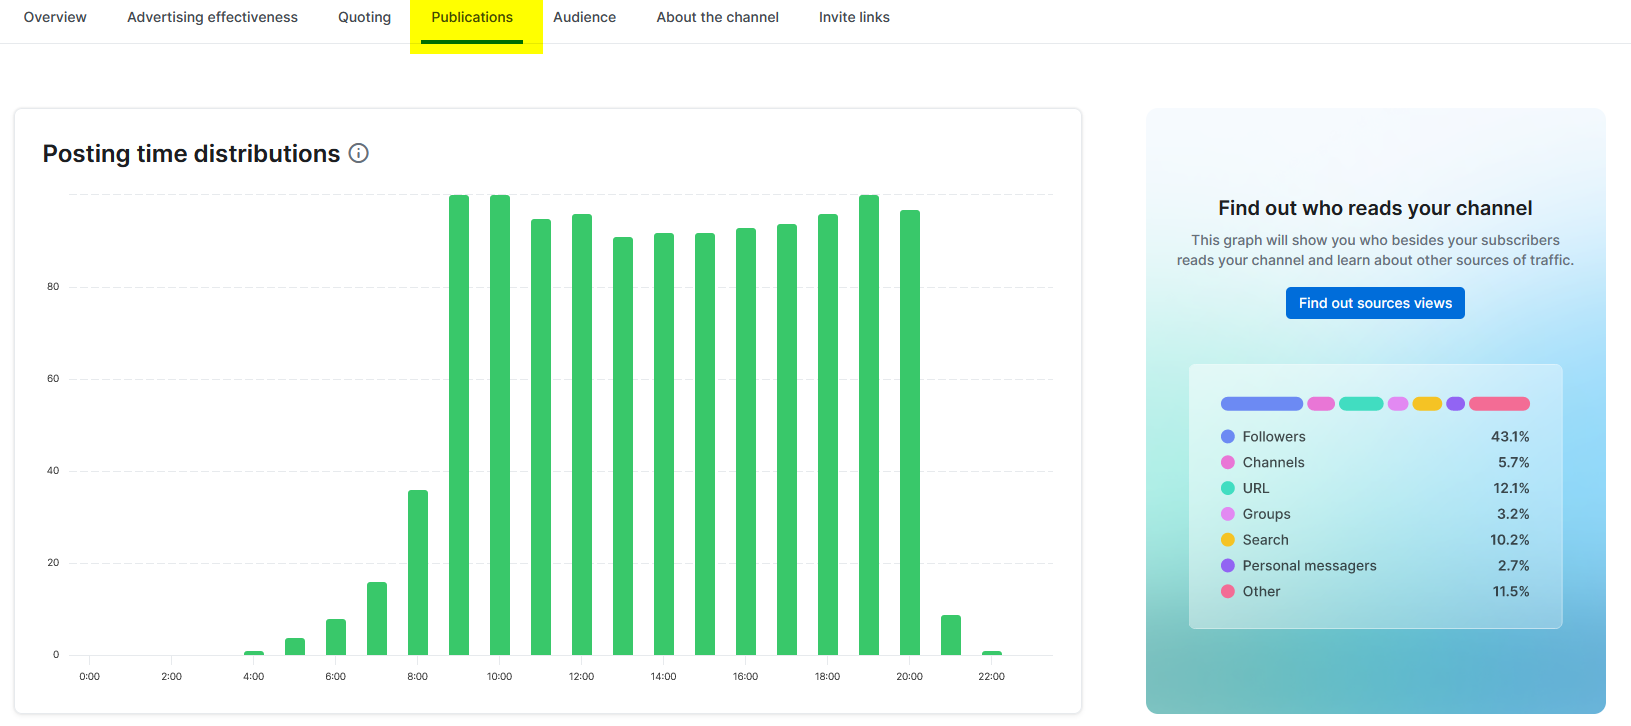
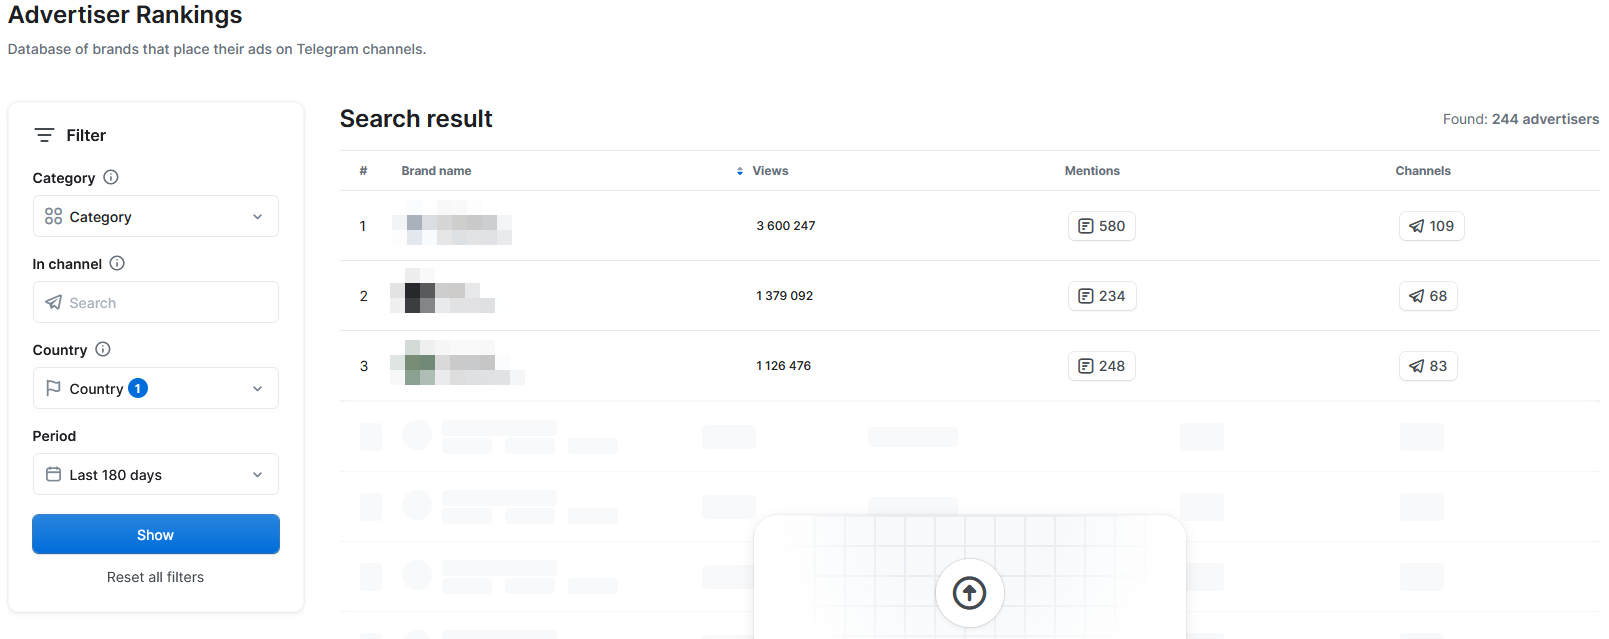
GitBook: Update content

diff --git a/gitbook/tools/telemetrio/README.md b/gitbook/tools/telemetrio/README.md
@@ -46,7 +46,7 @@ Features:
 
 The examples illustrate the results of a free-tier user account logged in and searching for the term "Bellingcat." This result page displays Bellingcat's Telegram channel, featuring several analytical data points, including subscriber counts over time, post views, engagement rate, and category.
 
-<figure><img src="../../.gitbook/assets/Screenshot 2024-04-20 at 2.35.57 PM.png" alt=""><figcaption><p>Telemtrio example search result depicting the Bellingcat channel.</p></figcaption></figure>
+<figure><img src=".gitbook/assets/Screenshot 2024-04-20 at 2.35.57 PM (1).png" alt=""><figcaption><p>Telemtrio example search result depicting the Bellingcat channel.</p></figcaption></figure>
 
 ## Functions
 
@@ -86,7 +86,7 @@ This feature allows users to add channels not listed in the catalog. It ensures 
 
 When viewing the landing pages of individual channels, several metrics are presented that can help you quickly judge a Telegram channel's size, influence, engagement, and activity.
 
-<figure><img src="../../.gitbook/assets/grafik (7).png" alt=""><figcaption><p>The results page of the Bellingcat channel showing several basic metrics. (see details below)</p></figcaption></figure>
+<figure><img src=".gitbook/assets/grafik (7) (1).png" alt=""><figcaption><p>The results page of the Bellingcat channel showing several basic metrics. (see details below)</p></figcaption></figure>
 
 <details>
 
@@ -117,7 +117,7 @@ Some example use-cases:
 
 #### The Overview Tab
 
-<figure><img src="../../.gitbook/assets/grafik (4) (1).png" alt=""><figcaption><p>This section provides a visual representation of the channel's subscriber growth over time. The graph shows the number of subscribers on a daily basis, while the right column lists recent posts.</p></figcaption></figure>
+<figure><img src=".gitbook/assets/grafik (4) (1).png" alt=""><figcaption><p>This section provides a visual representation of the channel's subscriber growth over time. The graph shows the number of subscribers on a daily basis, while the right column lists recent posts.</p></figcaption></figure>
 
 The "Overview" tab provides critical insights into the channel's growth, engagement, and recent activity. A line graph shows the total number of subscribers over a selected period, highlighting trends in subscriber growth, and a table lists the exact number of subscribers, daily growth, mentions, reposts, and posts according to the selected granularity.
 
@@ -146,7 +146,7 @@ Some use-cases:
 
 #### Advertising effectiveness
 
-<figure><img src="../../.gitbook/assets/grafik (5) (1).png" alt=""><figcaption><p>Advertising effectiveness tab of an "alternative news" channel.</p></figcaption></figure>
+<figure><img src=".gitbook/assets/grafik (5) (1).png" alt=""><figcaption><p>Advertising effectiveness tab of an "alternative news" channel.</p></figcaption></figure>
 
 The **Advertising Effectiveness tab** provides metrics for understanding a channel's advertising strategies and their impact. Investigating advertising can help trace funding sources or reveal connections between obfuscated networks of channels. Advertising is an aspect of research often worth looking into and a strength of the platform (compared to free or CLI tools).
 
@@ -187,7 +187,7 @@ The Quoting tab details how often a channel is mentioned or reposted by others, 
 
 _Quoting Tab: In/Outgoing Mentions:_
 
-<figure><img src="../../.gitbook/assets/grafik (11).png" alt=""><figcaption><p>Incoming and Outgoing Messages of an "alternative news" channel.</p></figcaption></figure>
+<figure><img src=".gitbook/assets/grafik (11) (1).png" alt=""><figcaption><p>Incoming and Outgoing Messages of an "alternative news" channel.</p></figcaption></figure>
 
 <details>
 
@@ -205,7 +205,7 @@ These metrics allow insights into key questions about the channel's interactions
 
 _Quoting Tab: Repost Graphs and Graphs by Category & GEO_
 
-<figure><img src="../../.gitbook/assets/grafik (12).png" alt=""><figcaption><p>Reposts and channel mentions of an "alternative news" channel.</p></figcaption></figure>
+<figure><img src=".gitbook/assets/grafik (12) (1).png" alt=""><figcaption><p>Reposts and channel mentions of an "alternative news" channel.</p></figcaption></figure>
 
 <details>
 
@@ -223,7 +223,7 @@ Together, these metrics help track a channel's visibility and influence, underst
 
 _Quoting Tab: Reposts and mentions table_
 
-<figure><img src="../../.gitbook/assets/grafik (6) (1).png" alt=""><figcaption><p>Bellingcat's incoming reposts and mentions.</p></figcaption></figure>
+<figure><img src=".gitbook/assets/grafik (6) (1).png" alt=""><figcaption><p>Bellingcat's incoming reposts and mentions.</p></figcaption></figure>
 
 The "Reposts and Mentions of the Channel" section provides a detailed view of how the analyzed channel interacts with and is referenced by other channels. This is divided into incoming and outgoing mentions.
 
@@ -247,9 +247,9 @@ The Publication Analysis tab offers detailed insights into a channel's average d
 
 _Publication Tab: posting time distributions_
 
-<figure><img src="../../.gitbook/assets/grafik (1) (1).png" alt=""><figcaption><p>A: Posting time distribution of an "alternative news" channel.</p></figcaption></figure>
+<figure><img src=".gitbook/assets/grafik (1) (1).png" alt=""><figcaption><p>A: Posting time distribution of an "alternative news" channel.</p></figcaption></figure>
 
-<figure><img src="../../.gitbook/assets/grafik (15).png" alt=""><figcaption><p>B: Posting time distribution of Bellingcat's channel</p></figcaption></figure>
+<figure><img src=".gitbook/assets/grafik (15) (1).png" alt=""><figcaption><p>B: Posting time distribution of Bellingcat's channel</p></figcaption></figure>
 
 <details>
 
@@ -270,7 +270,7 @@ Analyzing posting times can help identify inauthentic behavior in several ways. 
 
 _Publication Tab: publication analysis_
 
-<figure><img src="../../.gitbook/assets/grafik (17).png" alt=""><figcaption><p><strong>Publication Analysis metrics table</strong> includes recent posts, publication times, total views, the number of shares, and a graphical representation of how views accumulate over time.</p></figcaption></figure>
+<figure><img src=".gitbook/assets/grafik (17) (1).png" alt=""><figcaption><p><strong>Publication Analysis metrics table</strong> includes recent posts, publication times, total views, the number of shares, and a graphical representation of how views accumulate over time.</p></figcaption></figure>
 
 <details>
 
@@ -302,7 +302,7 @@ The Audience tab on Telemetr.io provides essential metrics on the demographics, 
 This area is only accessible to channel owners who have subscribed to the service. The values in this tab are example values and will be the same for each channel.
 {% endhint %}
 
-<figure><img src="../../.gitbook/assets/grafik (18).png" alt=""><figcaption><p>Example demographic metrics.</p></figcaption></figure>
+<figure><img src=".gitbook/assets/grafik (18) (1).png" alt=""><figcaption><p>Example demographic metrics.</p></figcaption></figure>
 
 <details>
 
@@ -319,7 +319,7 @@ This area is only accessible to channel owners who have subscribed to the servic
 
 #### About the channel
 
-<figure><img src="../../.gitbook/assets/grafik (23).png" alt=""><figcaption><p>Bellingcat's historical changes to their channel descriptions.</p></figcaption></figure>
+<figure><img src=".gitbook/assets/grafik (23) (1).png" alt=""><figcaption><p>Bellingcat's historical changes to their channel descriptions.</p></figcaption></figure>
 
 The **"About the Channel" tab provides details about the history of changes to** the channel names, descriptions, and external links.
 
@@ -358,7 +358,7 @@ Telemetr.io offers several tools for monitoring and analyzing Telegram channels:
 
 The event tracking tool provides the functionality to focus on relevant channels or keywords, track deleted mentions to identify potential censorship or narrative manipulation, and receive real-time notifications to stay updated on significant developments.
 
-<figure><img src="../../.gitbook/assets/grafik (20).png" alt=""><figcaption><p>Word and phrase event tracking dialogue</p></figcaption></figure>
+<figure><img src=".gitbook/assets/grafik (20) (1).png" alt=""><figcaption><p>Word and phrase event tracking dialogue</p></figcaption></figure>
 
 The **word tracking tool** enables users to monitor specific words or phrases within Telegram channels and chats, allowing them to track discussions on particular topics, events, or individuals.
 
@@ -377,7 +377,7 @@ The **word tracking tool** enables users to monitor specific words or phrases wi
 
 </details>
 
-<figure><img src="../../.gitbook/assets/grafik (3).png" alt=""><figcaption><p>Channel and chat tracking dialogue</p></figcaption></figure>
+<figure><img src=".gitbook/assets/grafik (3) (1).png" alt=""><figcaption><p>Channel and chat tracking dialogue</p></figcaption></figure>
 
 <details>
 
@@ -408,7 +408,7 @@ The **word tracking tool** enables users to monitor specific words or phrases wi
 
 #### Advertising Tool
 
-<figure><img src="../../.gitbook/assets/grafik (22).png" alt=""><figcaption><p>Comparing Advertisements for "Visa"</p></figcaption></figure>
+<figure><img src=".gitbook/assets/grafik (22) (1).png" alt=""><figcaption><p>Comparing Advertisements for "Visa"</p></figcaption></figure>
 
 The advertising search tool allows users to filter and analyze advertisement posts on Telegram, unrelated to individual channels. This tool may be used to understand advertising trends, find actors who advertise items or services of interest to your investigation, and track specific ad campaigns.
 
@@ -451,7 +451,7 @@ After applying filters, the results section will list advertisement posts that m
 
 The advertiser rankings tool allows users to analyze advertising activities on Telegram by ranking advertisers based on various criteria. Users can filter their search by category, specific channels, country, and time period to focus on industry-specific trends, targeted advertising efforts, and geographic-specific strategies. The search results provide detailed metrics for each advertiser, including brand name, total views, mentions, and the number of channels where ads are placed.
 
-<figure><img src="../../.gitbook/assets/grafik (2).png" alt=""><figcaption><p>Advertizer ranking showing the top advertizers in Germany. (Free version is limited to 3 results)</p></figcaption></figure>
+<figure><img src=".gitbook/assets/grafik (2).png" alt=""><figcaption><p>Advertizer ranking showing the top advertizers in Germany. (Free version is limited to 3 results)</p></figcaption></figure>
 
 <details>
 